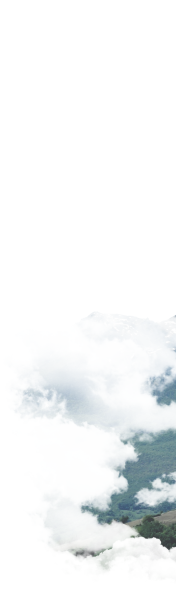
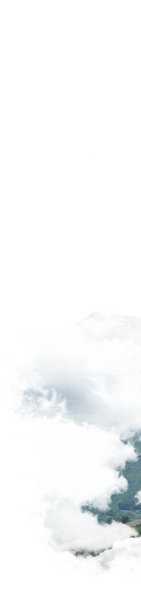
Updated styles for tablet

diff --git a/source/index.html b/source/index.html
@@ -371,10 +371,10 @@
           <div class="training__subheader-wrapper">
             <h3 class="training__subheader">Наши инструкторы</h3>
             <div class="training__pagination">
-              <button class="training__pagination-button-prev button button--icon button--prev">
+              <button class="training__pagination-button-prev button button--icon button--prev" type="button">
                 <span class="visually-hidden">Предыдущий следующий слайд</span>
               </button>
-              <button class="training__pagination-button-next button button--icon button--next">
+              <button class="training__pagination-button-next button button--icon button--next" type="button">
                 <span class="visually-hidden">Показать следующий слайд</span>
               </button>
             </div>
@@ -557,10 +557,10 @@
           <div class="reviews__header-wrapper">
             <h2 data-title="Отзывы" class="page__header reviews__header">Отзывы</h2>
             <div class="reviews__pagination">
-              <button class="reviews__pagination-button-prev button button--icon button--prev">
+              <button class="reviews__pagination-button-prev button button--icon button--prev" type="button">
                 <span class="visually-hidden">Предыдущий следующий слайд</span>
               </button>
-              <button class="reviews__pagination-button-next button button--icon button--next">
+              <button class="reviews__pagination-button-next button button--icon button--next" type="button">
                 <span class="visually-hidden">Показать следующий слайд</span>
               </button>
             </div>
@@ -696,10 +696,10 @@
           </div>
         </div>
         <div class="adv__pagination">
-          <button class="adv__pagination-button-prev button button--icon button--prev">
+          <button class="adv__pagination-button-prev button button--icon button--prev" type="button">
             <span class="visually-hidden">Предыдущий следующий слайд</span>
           </button>
-          <button class="adv__pagination-button-next button button--icon button--next">
+          <button class="adv__pagination-button-next button button--icon button--next" type="button">
             <span class="visually-hidden">Показать следующий слайд</span>
           </button>
         </div>
@@ -710,10 +710,10 @@
           <div class="gallery__description">
             <p>Добавляйте фото с хэштегом #лайфтур, а также отмечайте нас на фото. Лучшие фотографии украсят этот раздел нашего сайта.</p>
             <div class="gallery__pagination">
-              <button class="gallery__pagination-button-prev button button--icon button--prev">
+              <button class="gallery__pagination-button-prev button button--icon button--prev" type="button">
                 <span class="visually-hidden">Предыдущий следующий слайд</span>
               </button>
-              <button class="gallery__pagination-button-next button button--icon button--next">
+              <button class="gallery__pagination-button-next button button--icon button--next" type="button">
                 <span class="visually-hidden">Показать следующий слайд</span>
               </button>
             </div>

diff --git a/source/js/modules/navigations/menu-manager.js b/source/js/modules/navigations/menu-manager.js
@@ -1,0 +1,49 @@
+export class NavigationManager {
+  #MENU_OPENED_PART = 'opened';
+  #MENU_CLOSED_PART = 'closed';
+
+  constructor(buttonClassName, menuClassName) {
+    this.buttonClassName = buttonClassName;
+    this.menuClassName = menuClassName;
+  }
+
+  #getBEMModificator(className, modificator) {
+    return `${className}--${modificator}`;
+  }
+
+  #showNavigationMenu(button, isOpenClassName, isClosedClassName) {
+    button.classList.add(isOpenClassName);
+    button.classList.remove(isClosedClassName);
+  }
+
+  #closeNavigationMenu(button, isOpenClassName, isClosedClassName) {
+    button.classList.remove(isOpenClassName);
+    button.classList.add(isClosedClassName);
+  }
+
+  initialize() {
+    const button = document.querySelector(`.${this.buttonClassName}`);
+    if (button) {
+      const menu = document.querySelector(`.${this.menuClassName}`);
+      const isOpenClassName = this.#getBEMModificator(this.buttonClassName, this.#MENU_OPENED_PART);
+      const isClosedClassName = this.#getBEMModificator(this.buttonClassName, this.#MENU_CLOSED_PART);
+      button.addEventListener('click', () => {
+        if (button.classList.contains(isOpenClassName)) {
+          this.#closeNavigationMenu(button, isOpenClassName, isClosedClassName);
+        } else {
+          this.#showNavigationMenu(button, isOpenClassName, isClosedClassName);
+        }
+      });
+
+      window.addEventListener('resize', () => {
+        this.#closeNavigationMenu(button, isOpenClassName, isClosedClassName);
+      });
+
+      document.addEventListener('click', (event) => {
+        if (!menu.contains(event.target) && event.target !== button && button.classList.contains(isOpenClassName)) {
+          this.#closeNavigationMenu(button, isOpenClassName, isClosedClassName);
+        }
+      });
+    }
+  }
+}

diff --git a/source/sass/blocks/page.scss b/source/sass/blocks/page.scss
@@ -26,8 +26,8 @@
   background-repeat: no-repeat;
 
   @include mixins.mobile {
-    background-size: 170px 595px;
-    background-position: calc(100% + 34px) 626px;
+    background-size: 141px 595px;
+    background-position: 100% 543px;
     background-image:
       image-set(
           "../img/decorations/clouds-mobile@1x.webp" type("image/webp"),
@@ -44,21 +44,21 @@
   }
 
   @include mixins.tablet {
-    //background-size: 294px 1364px;
-    //background-position: 100px 400px;
-    //background-image:
-    //  image-set(
-    //      "../img/decorations/clouds-tablet@1x.webp" type("image/webp"),
-    //      "../img/decorations/clouds-tablet@1x.jpg" type("image/jpeg")
-    //  );
-    //
-    //@media (resolution >= 2dppx) {
-    //  background-image:
-    //    image-set(
-    //        "../img/decorations/clouds-tablet@2x.webp" type("image/webp"),
-    //        "../img/decorations/clouds-tablet@2x.png" type("image/png")
-    //    );
-    //}
+    background-size: 425px 1630px;
+    background-position: 100% 1033px;
+    background-image:
+      image-set(
+          "../img/decorations/clouds-1-tablet@1x.webp" type("image/webp"),
+          "../img/decorations/clouds-1-tablet@1x.jpg" type("image/jpeg")
+      );
+
+    @media (resolution >= 2dppx) {
+      background-image:
+        image-set(
+            "../img/decorations/clouds-1-tablet@2x.webp" type("image/webp"),
+            "../img/decorations/clouds-1-tablet@2x.png" type("image/png")
+        );
+    }
   }
 }
 

diff --git a/source/sass/blocks/adv.scss b/source/sass/blocks/adv.scss
@@ -1,6 +1,27 @@
 @use "../common/variables.scss";
 @use "../common/mixins.scss";
 
+.adv {
+    @include mixins.tablet {
+      background-repeat: no-repeat;
+      background-size: 768px 996px;
+      background-position: 100% 177px;
+      background-image:
+        image-set(
+            "../img/decorations/clouds-3-tablet@1x.webp" type("image/webp"),
+            "../img/decorations/clouds-3-tablet@1x.jpg" type("image/jpeg")
+        );
+
+      @media (resolution >= 2dppx) {
+        background-image:
+          image-set(
+              "../img/decorations/clouds-3-tablet@2x.webp" type("image/webp"),
+              "../img/decorations/clouds-3-tablet@2x.png" type("image/png")
+          );
+      }
+    }
+}
+
 .adv__wrapper {
   @include mixins.mobile {
     padding: 15px 15px 20px;
@@ -56,6 +77,7 @@
   justify-content: center;
   align-items: center;
   text-align: center;
+  background-color: variables.$background-color-primary;
   border: 1px solid rgba(variables.$button-color-primary, 0.1);
   position: relative;
 

diff --git a/source/sass/blocks/training.scss b/source/sass/blocks/training.scss
@@ -1,6 +1,27 @@
 @use "../common/variables.scss";
 @use "../common/mixins.scss";
 
+.training {
+  @include mixins.tablet {
+    background-repeat: no-repeat;
+    background-size: 465px 280px;
+    background-position: 100% 620px;
+    background-image:
+      image-set(
+          "../img/decorations/clouds-2-tablet@1x.webp" type("image/webp"),
+          "../img/decorations/clouds-2-tablet@1x.jpg" type("image/jpeg")
+      );
+
+    @media (resolution >= 2dppx) {
+      background-image:
+        image-set(
+            "../img/decorations/clouds-2-tablet@2x.webp" type("image/webp"),
+            "../img/decorations/clouds-2-tablet@2x.png" type("image/png")
+        );
+    }
+  }
+}
+
 .training__wrapper {
   @include mixins.mobile {
     padding-top: 36px;
@@ -77,6 +98,7 @@
 }
 
 .training__item {
+  background-color: variables.$background-color-primary;
   border: 1px solid rgba(variables.$background-color-secondary, 0.1);
   padding: 15px;
   height: auto;

diff --git a/source/js/modules/form/form-validator.js b/source/js/modules/form/form-validator.js
@@ -1,0 +1,28 @@
+export class FormValidator {
+  constructor(formClassName) {
+    this.formClassName = formClassName;
+  }
+
+  initialize() {
+    const form = document.querySelector(`.${this.formClassName}`);
+    if (form) {
+      form.addEventListener('submit', (e) => {
+        const phoneField = document.querySelector('input[name="phone"]');
+        if (phoneField) {
+          const phoneRegex = /^[0-9+()\- ]+$/;
+          if (!phoneRegex.test(phoneField.value)) {
+            e.preventDefault();
+            return false;
+          }
+        }
+
+        const emailField = document.querySelector('input[name="email"]');
+        const emailRegex = /^[a-zA-Z0-9._%+-]+@[a-zA-Z0-9.-]+\.[a-zA-Zрф]{2,}$/;
+        if (!emailRegex.test(emailField.value)) {
+          e.preventDefault();
+          return false;
+        }
+      });
+    }
+  }
+}

diff --git a/source/js/main.js b/source/js/main.js
@@ -1,4 +1,6 @@
 import { SwiperInitializer } from './modules/sliders/swiper-initializer.js';
+import { NavigationManager } from './modules/navigations/menu-manager.js';
+import {FormValidator} from "./modules/form/form-validator.js";
 
 const heroSlider = new SwiperInitializer('hero__slider');
 const heroOptions = heroSlider.createHeroOptions();
@@ -23,3 +25,9 @@ advSlider.initialize(advOptions);
 const gallerySlider = new SwiperInitializer('gallery__slider');
 const galleryOptions = gallerySlider.createGalleryOptions('gallery__pagination-button-prev', 'gallery__pagination-button-next');
 gallerySlider.initialize(galleryOptions);
+
+const menuManager = new NavigationManager('header__menu-button', 'nav');
+menuManager.initialize();
+
+const formValidator = new FormValidator('form__info');
+formValidator.initialize();

diff --git a/source/sass/blocks/header.scss b/source/sass/blocks/header.scss
@@ -32,7 +32,6 @@
 }
 
 .header__menu-button {
-  display: block;
   background-color: variables.$transparent-color;
   border: 0;
   padding: 0;
@@ -40,6 +39,14 @@
   min-width: 26px;
   min-height: 26px;
   color: inherit;
+
+  @include mixins.mobile {
+    display: block;
+  }
+
+  @include mixins.desktop {
+    display: none;
+  }
 
   &::before {
     content: "";
@@ -72,6 +79,10 @@
 
   @include mixins.tablet {
     margin-left: 100px;
+  }
+
+  @include mixins.desktop {
+    margin-left: 0;
   }
 
   &:hover {
